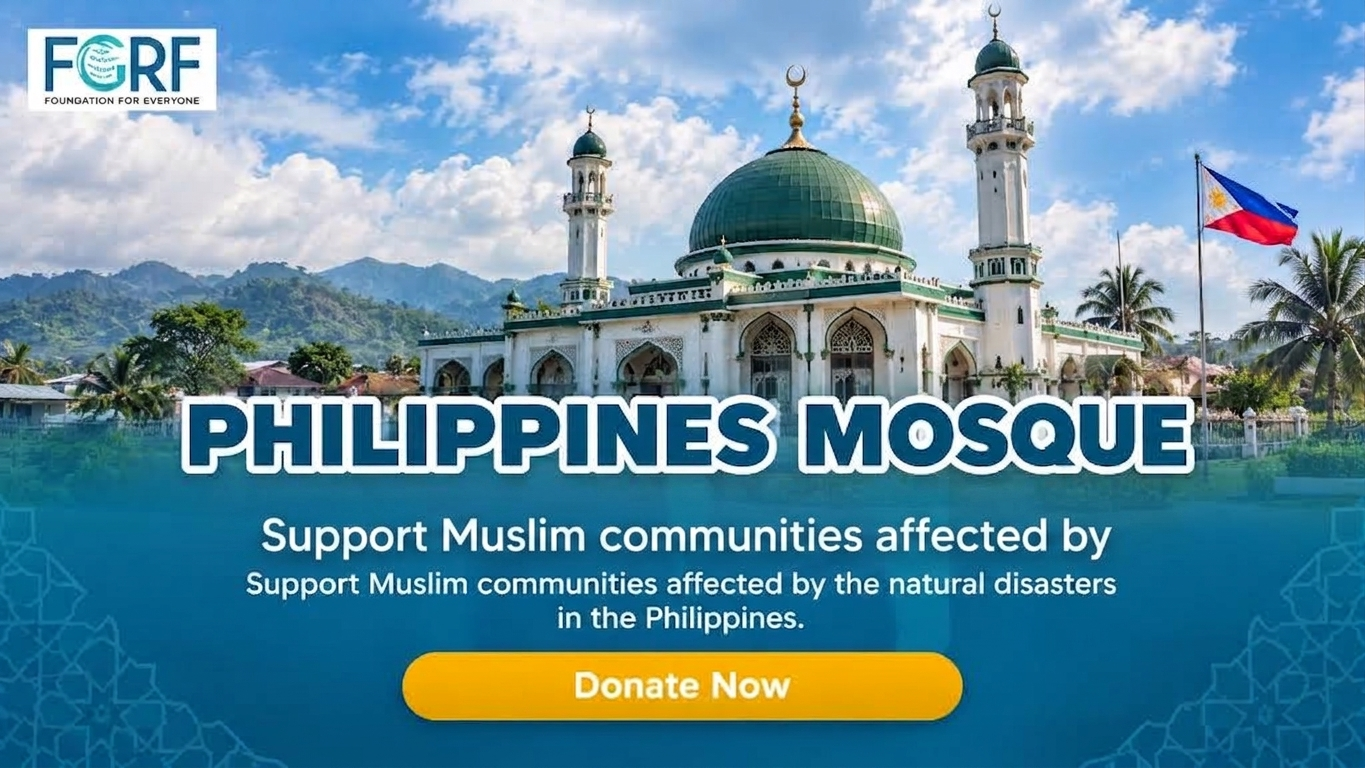
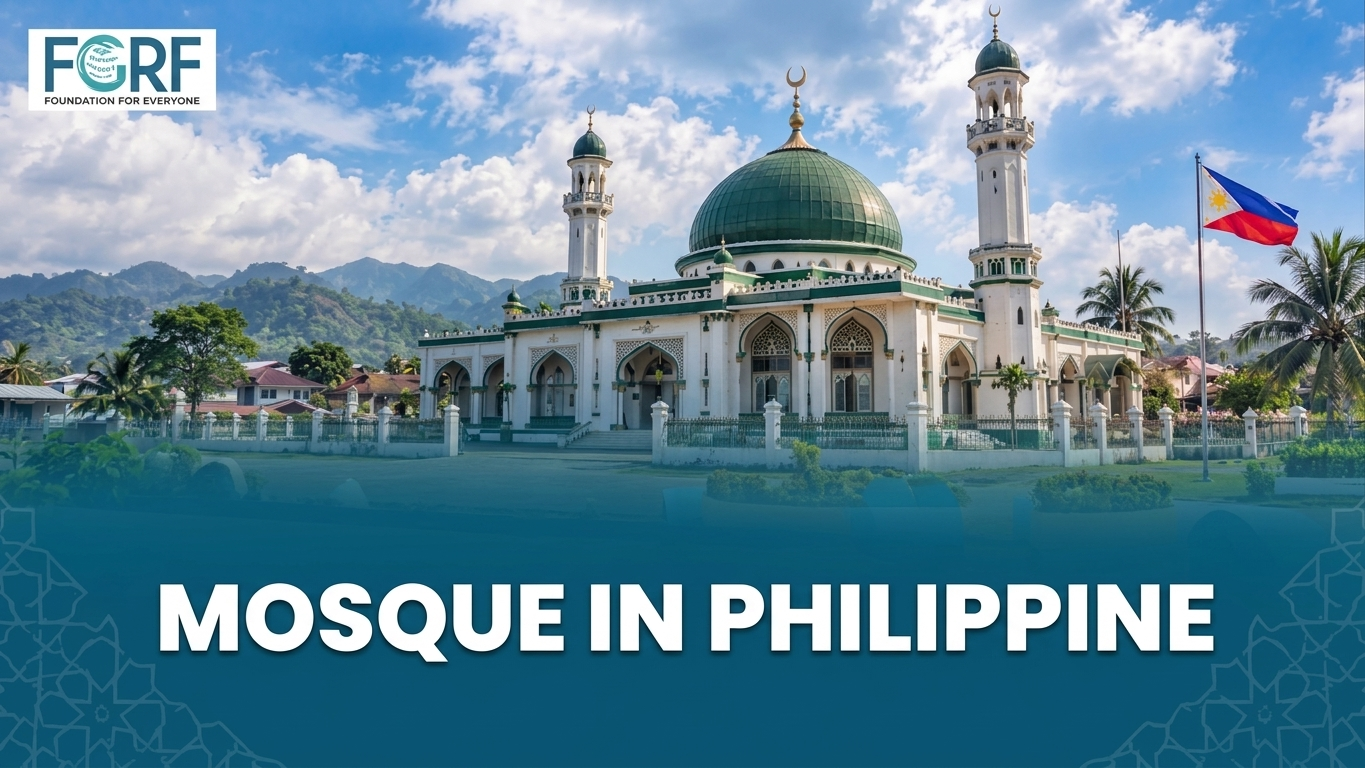
changes done

diff --git a/src/app/support/page.tsx b/src/app/support/page.tsx
@@ -119,7 +119,7 @@ export default function SupportPage() {
   {
   "id": "phillipne_mouque",
   "title": "PHILIPPINES MOSQUE",
-  "description": "Support Muslim communities affected by the natural disasters in the Philippines.",
+  "description": "Help us build a mosque where thousands have embraced Islam.",
   "image": "/phillipne_mouque.jpg",
   "alt": "Philippines Mosque Image"
 },
@@ -128,7 +128,7 @@ export default function SupportPage() {
   "id": "phillipne_floods",
   "title": "PHILIPPINES FLOOD RELIEF",
   "description": "Provide urgent aid and relief to families impacted by severe flooding in the Philippines.",
-  "image": "/phillipne_emergency_flood_relef.png",
+  "image": "/phillipne_emergency_flood_relef.jpg",
   "alt": "Philippines Flood Relief Image"
 }
 

diff --git a/src/app/donate/[type]/page.tsx b/src/app/donate/[type]/page.tsx
@@ -313,14 +313,14 @@ export default function DonatePage() {
       title: "Philippines Mosque",
       image: "/phillipne_mouque.jpg",
       description:
-        "Support Muslim communities affected by the natural disasters in the Philippines.",
+        "Help us build a mosque where thousands have embraced Islam",
       minAmount: 1,
     },
 
     phillipne_floods: {
       type: "sadqah",
       title: "Philippines Flood Relief",
-      image: "/phillipne_emergency_flood_relef.png",
+      image: "/phillipne_emergency_flood_relef.jpg",
       description:
         "Provide urgent aid and relief to families impacted by severe flooding in the Philippines.",
       minAmount: 1,
